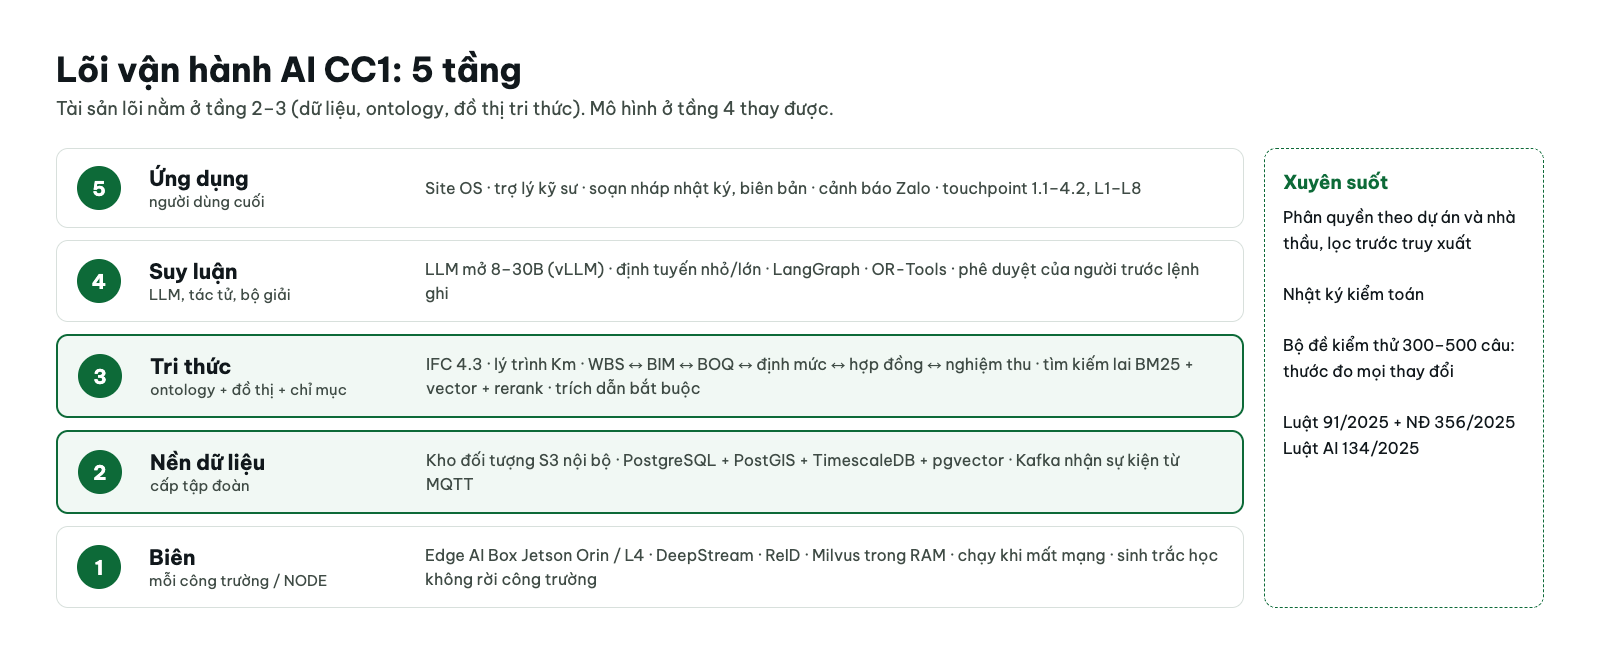
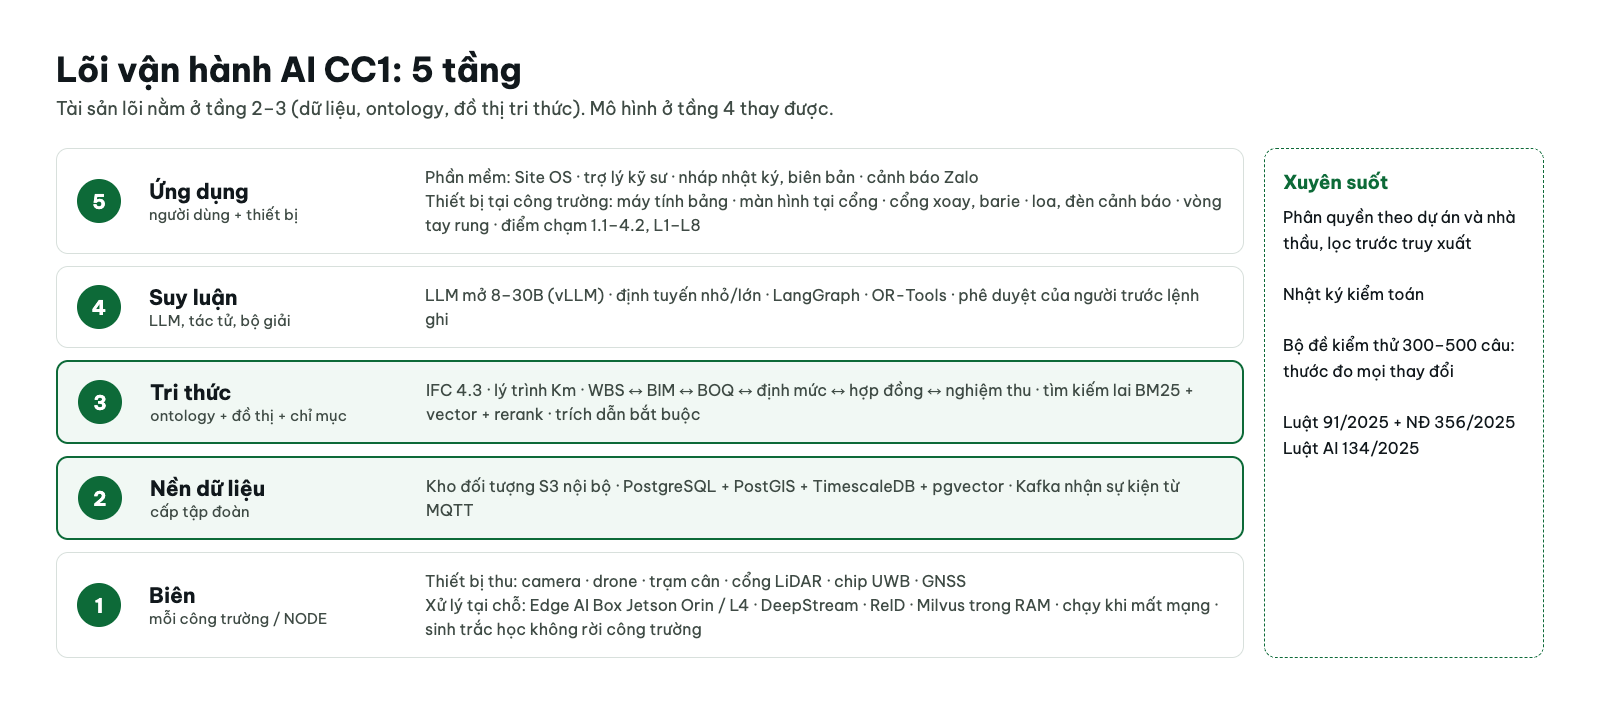
fix(site): show on-site hardware in the AI core layer diagram
Layer 1 lists the capture devices (camera, drone, weighbridge, LiDAR gate,
UWB tag, GNSS) and layer 5 lists the devices people use or that act on
site (tablet, gate screen, turnstile and barrier, alarm, wristband).

diff --git a/index.html b/index.html
@@ -1339,7 +1339,7 @@
         <article class="core-principle"><h3>Không tự chế thiết bị đo</h3><p>Mỗi phép đo dùng sản phẩm thương mại đã kiểm định. CC1 làm phần nối dữ liệu, đối chiếu và cảnh báo.</p></article>
         <article class="core-principle"><h3>Giá trị riêng: chuỗi khối lượng</h3><p>Thiết kế → dự toán → nhập về → thi công → nghiệm thu → thanh toán, nối bằng một ontology chung cho cả tập đoàn.</p></article>
       </div>
-      <div class="core-block" id="core-layers"><h3 class="core-block-title">Kiến trúc 5 tầng</h3><figure class="core-figure"><img src="./media/ai-core/ai-core-five-layers.png" alt="Sơ đồ 5 tầng của lõi vận hành AI: biên, nền dữ liệu, tri thức, suy luận, ứng dụng" width="1600" height="656" loading="lazy" /></figure><div class="table-scroll" tabindex="0"><table class="core-table"><thead><tr><th scope="col">Tầng</th><th scope="col">Vai trò</th><th scope="col">Công nghệ</th></tr></thead><tbody><tr><td>1. Biên</td><td>Thị giác máy, cảm biến, chạy khi mất mạng</td><td>Edge AI Box Jetson Orin / L4, DeepStream, Milvus trong RAM</td></tr><tr><td>2. Nền dữ liệu</td><td>Lưu sự kiện, hồ sơ, mô hình 3D</td><td>Kho đối tượng S3 nội bộ, PostgreSQL + PostGIS + TimescaleDB, Kafka</td></tr><tr><td>3. Tri thức</td><td>Ontology, đồ thị, chỉ mục hồ sơ</td><td>Neo4j hoặc Apache AGE, pgvector hoặc Qdrant, tìm kiếm lai BM25 + vector</td></tr><tr><td>4. Suy luận</td><td>LLM, tác tử, bộ giải</td><td>LLM mở 8–30B (vLLM), LangGraph, OR-Tools, người phê duyệt lệnh ghi</td></tr><tr><td>5. Ứng dụng</td><td>Người dùng cuối</td><td>Site OS, trợ lý kỹ sư, nháp nhật ký và biên bản, cảnh báo Zalo</td></tr></tbody></table></div></div>
+      <div class="core-block" id="core-layers"><h3 class="core-block-title">Kiến trúc 5 tầng</h3><figure class="core-figure"><img src="./media/ai-core/ai-core-five-layers.png" alt="Sơ đồ 5 tầng của lõi vận hành AI: biên (thiết bị thu và xử lý tại chỗ), nền dữ liệu, tri thức, suy luận, ứng dụng (phần mềm và thiết bị tại công trường)" width="1600" height="706" loading="lazy" /></figure><div class="table-scroll" tabindex="0"><table class="core-table"><thead><tr><th scope="col">Tầng</th><th scope="col">Vai trò</th><th scope="col">Công nghệ</th></tr></thead><tbody><tr><td>1. Biên</td><td>Thiết bị thu tại công trường, thị giác máy, chạy khi mất mạng</td><td>Camera, drone, trạm cân, cổng LiDAR, chip UWB, GNSS; Edge AI Box Jetson Orin / L4, DeepStream, Milvus trong RAM</td></tr><tr><td>2. Nền dữ liệu</td><td>Lưu sự kiện, hồ sơ, mô hình 3D</td><td>Kho đối tượng S3 nội bộ, PostgreSQL + PostGIS + TimescaleDB, Kafka</td></tr><tr><td>3. Tri thức</td><td>Ontology, đồ thị, chỉ mục hồ sơ</td><td>Neo4j hoặc Apache AGE, pgvector hoặc Qdrant, tìm kiếm lai BM25 + vector</td></tr><tr><td>4. Suy luận</td><td>LLM, tác tử, bộ giải</td><td>LLM mở 8–30B (vLLM), LangGraph, OR-Tools, người phê duyệt lệnh ghi</td></tr><tr><td>5. Ứng dụng</td><td>Người dùng cuối và thiết bị tại công trường</td><td>Site OS, trợ lý kỹ sư, nháp nhật ký và biên bản, cảnh báo Zalo; máy tính bảng, màn hình tại cổng, cổng xoay/barie, loa và đèn cảnh báo, vòng tay rung</td></tr></tbody></table></div></div>
       <div class="core-block" id="deep-assistant"><h3 class="core-block-title">Chi tiết: Trợ lý AI có trích dẫn</h3><figure class="core-figure"><img src="./51b_AI_Core_Blueprint_Tro_Ly_Trich_Dan_HUD.jpg" alt="Bản vẽ tách lớp: câu hỏi, kiểm quyền, truy xuất lai, câu trả lời kèm trích dẫn; số liệu lấy qua truy vấn ERP" width="1376" height="768" loading="lazy" /></figure><div class="deep-steps"><figure><img src="./52b_AI_Core_Tro_Ly_B1_Hoi_Giong_Noi_HUD.jpg" alt="Chỉ huy trưởng hỏi bằng giọng nói, tiếng Việt, không cần gõ." width="1376" height="768" loading="lazy" /><figcaption><b>Bước 1.</b> Chỉ huy trưởng hỏi bằng giọng nói, tiếng Việt, không cần gõ.</figcaption></figure><figure><img src="./53b_AI_Core_Tro_Ly_B2_Doc_Nguon_Trich_Dan_HUD.jpg" alt="Câu trả lời đặt cạnh tài liệu gốc, tô sáng đúng đoạn trích." width="1376" height="768" loading="lazy" /><figcaption><b>Bước 2.</b> Câu trả lời đặt cạnh tài liệu gốc, tô sáng đúng đoạn trích.</figcaption></figure><figure><img src="./54b_AI_Core_Tro_Ly_B3_So_Lieu_Tu_ERP_HUD.jpg" alt="Số liệu lấy thẳng từ ERP qua truy vấn; mô hình không tự đoán số." width="1376" height="768" loading="lazy" /><figcaption><b>Bước 3.</b> Số liệu lấy thẳng từ ERP qua truy vấn; mô hình không tự đoán số.</figcaption></figure></div></div>
       <div class="core-block"><h3 class="core-block-title">Vì sao không tự huấn luyện mô hình từ đầu</h3><div class="table-scroll" tabindex="0"><table class="core-table"><thead><tr><th scope="col">Lựa chọn</th><th scope="col">Cần gì</th><th scope="col">Kết luận</th></tr></thead><tbody><tr><td>Huấn luyện từ đầu</td><td>Hàng nghìn tỷ token, hàng chục nghìn giờ GPU trở lên</td><td>Không. Tiếng Việt ngành xây dựng chỉ cỡ vài trăm triệu token</td></tr><tr><td>Huấn luyện tiếp trên kho ngành</td><td>0,5–2 tỷ token sạch, vài trăm giờ GPU</td><td>Chỉ khi bộ đề cho thấy hổng thuật ngữ</td></tr><tr><td>Tinh chỉnh hẹp (LoRA)</td><td>Vài nghìn mẫu do kỹ sư gán nhãn</td><td>Có: trích biên bản, BOQ, nhật ký</td></tr><tr><td>RAG + công cụ + ontology</td><td>Nền dữ liệu, chỉ mục, phân quyền</td><td>Bắt buộc, làm trước tiên</td></tr></tbody></table></div><p class="core-note">Số liệu (khối lượng, dòng BOQ, điều khoản TCVN, lý trình) chỉ lấy từ hệ thống gốc và có trích dẫn. Mô hình đảm nhận ngôn ngữ, trích xuất và gọi công cụ.</p></div>
       <div class="core-block"><h3 class="core-block-title">Ontology: chuỗi liên kết khối lượng</h3><figure class="core-figure"><img src="./media/ai-core/ontology-quantity-chain.png" alt="Sơ đồ ontology: không gian, cấu kiện, dòng BOQ, mã định mức, vật tư, biên bản nghiệm thu, sự kiện và phép đo" width="1600" height="748" loading="lazy" /></figure><div class="core-two"><div><h4 class="core-sub">Neo theo chuẩn</h4><ul class="core-list"><li>IFC 4.3 cho cấu kiện, gồm cả đường và cầu</li><li>Lý trình Km+m và LandXML cho công trường tuyến</li><li>ISO 19650 cho đặt tên tài liệu</li><li>Lược đồ định nghĩa một lần (LinkML), sinh ra bảng, đồ thị và lược đồ OCR</li></ul></div><div><h4 class="core-sub">Ontology đạt khi trả lời được</h4><ol class="core-list"><li>Đoạn Km 12+400–13+000: thiết kế, nhập, thi công, nghiệm thu, đã trả bao nhiêu m³ cấp phối?</li><li>Tầng 9: cấu kiện nào đã đổ bê tông mà chưa có biên bản nghiệm thu?</li><li>Nhà cung cấp nào có tỷ trọng cát lệch dải chuẩn quá 3 lần trong tháng?</li><li>Ai đã phê duyệt lệnh lùi lịch xe bồn hôm qua, dựa trên bằng chứng nào?</li></ol></div></div></div>

diff --git a/CHAPTER_AI_CORE_OPERATING_PLATFORM.md b/CHAPTER_AI_CORE_OPERATING_PLATFORM.md
@@ -50,11 +50,11 @@ Thang quyết định (mỗi bậc chỉ mở khi bộ đề chứng minh bậc 
 
 | Tầng | Vai trò | Công nghệ đề xuất | Liên hệ hồ sơ hiện có |
 |---|---|---|---|
-| 1. Biên | Thị giác máy, cảm biến, chạy khi mất mạng | DeepStream, YOLO, ReID, MQTT, Milvus/FAISS trong RAM | Edge AI Box Jetson AGX Orin 64GB / L4 |
+| 1. Biên | Thiết bị thu tại công trường (camera, drone, trạm cân, cổng LiDAR, chip UWB, GNSS); thị giác máy; chạy khi mất mạng | DeepStream, YOLO, ReID, MQTT, Milvus/FAISS trong RAM | Edge AI Box Jetson AGX Orin 64GB / L4 |
 | 2. Nền dữ liệu | Lưu mọi sự kiện, hồ sơ, mô hình 3D | Kho đối tượng S3 nội bộ; PostgreSQL + PostGIS + TimescaleDB; Kafka nhận từ MQTT | Mới |
 | 3. Tri thức | Ontology, đồ thị, chỉ mục hồ sơ | Neo4j hoặc Apache AGE; pgvector hoặc Qdrant; tìm kiếm lai BM25 + vector + rerank | Mới |
 | 4. Suy luận | LLM, tác tử, bộ giải | vLLM/SGLang, định tuyến mô hình nhỏ/lớn, LangGraph, OR-Tools | Site OS 3.5, Command Node 2× L40S |
-| 5. Ứng dụng | Người dùng cuối | Site OS, trợ lý kỹ sư, soạn nháp nhật ký/biên bản, cảnh báo Zalo | Điểm chạm 1.1–4.2, L1–L8 |
+| 5. Ứng dụng | Người dùng cuối và thiết bị tại công trường | Phần mềm: Site OS, trợ lý kỹ sư, soạn nháp nhật ký/biên bản, cảnh báo Zalo. Thiết bị: máy tính bảng, màn hình tại cổng, cổng xoay/barie, loa và đèn cảnh báo, vòng tay rung | Điểm chạm 1.1–4.2, L1–L8 |
 
 Xuyên suốt:
 
